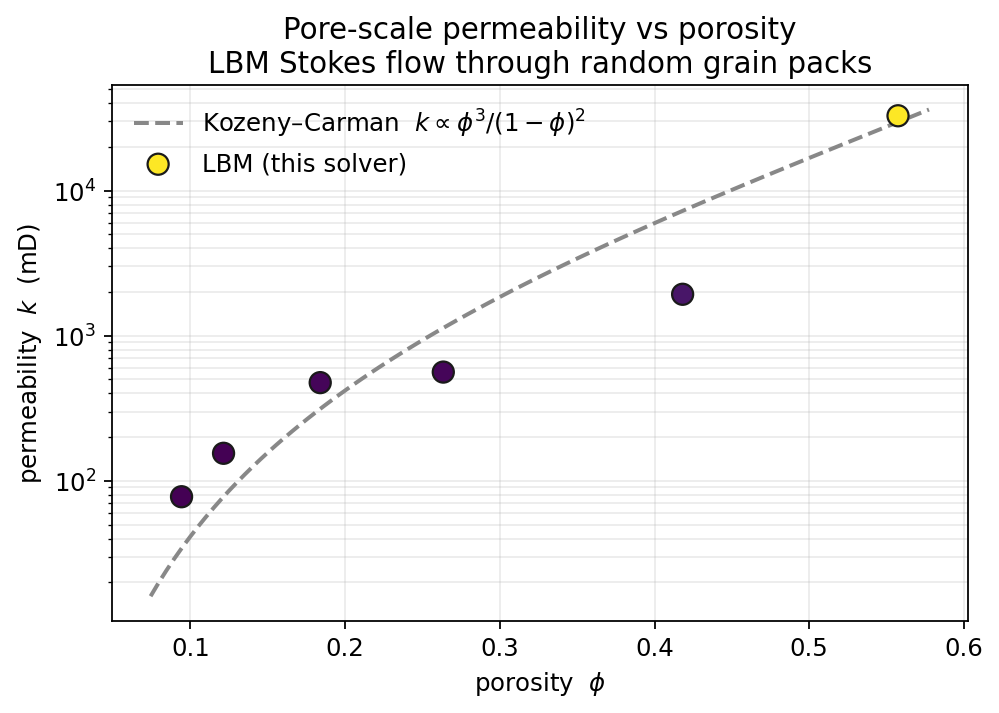
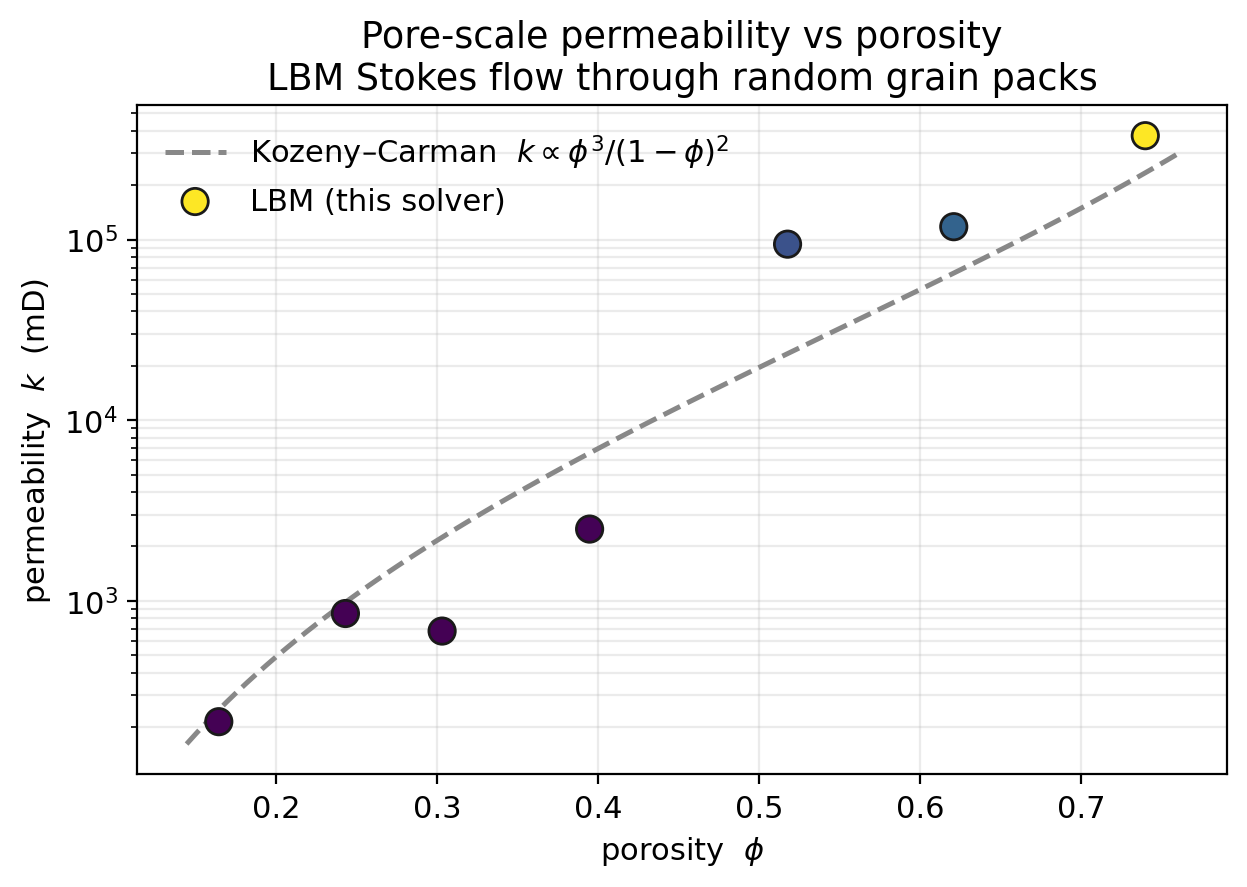
README: correct convergence claim, higher-res GPU figures, honest KC scatter
- Fix the accuracy of the Poiseuille validation: it is not 2nd-order; the error
  halves with each doubling of resolution (README highlights, validation section,
  test docstring all corrected).
- Soften the Kozeny-Carman claim to "follows the trend" and note the scatter is
  real (each point a different random packing), not solver error.
- Regenerate the velocity field at 460² and the porosity sweep at 320² on the GPU
  (sharper, better-converged than the earlier CPU-limited figures).

diff --git a/examples/permeability_curve.py b/examples/permeability_curve.py
@@ -23,14 +23,14 @@ from lbm_permeability import (
 
 OUT = os.path.join(os.path.dirname(os.path.dirname(os.path.abspath(__file__))), "docs")
 DX = 2.0e-6
-N = 150
+N = 320
 
 
 def main():
     os.makedirs(OUT, exist_ok=True)
     phis, ks = [], []
-    for nd in (22, 34, 46, 60, 76, 94):                       # more grains -> lower porosity
-        blocked = geometry.random_disks(N, N, n_disks=nd, radius=14, seed=100 + nd)
+    for nd in (26, 40, 56, 74, 94, 116, 142):                       # more grains -> lower porosity
+        blocked = geometry.random_disks(N, N, n_disks=nd, radius=20, seed=100 + nd)
         phi = geometry.porosity(blocked)
         res = lbm_stokes(blocked, F_x=1e-6, tau=1.0, n_steps_max=30000,
                          conv_tol=1e-5, conv_window=300, use_gpu=HAS_GPU, verbose=False)
@@ -57,7 +57,7 @@ def main():
     ax.grid(True, which="both", alpha=0.25)
     ax.legend(frameon=False, loc="upper left")
     fig.tight_layout()
-    fig.savefig(os.path.join(OUT, "permeability_vs_porosity.png"), dpi=160, bbox_inches="tight")
+    fig.savefig(os.path.join(OUT, "permeability_vs_porosity.png"), dpi=200, bbox_inches="tight")
     print(f"wrote {OUT}/permeability_vs_porosity.png")
 
 

diff --git a/examples/visualize.py b/examples/visualize.py
@@ -30,11 +30,11 @@ def main():
     os.makedirs(OUT_DIR, exist_ok=True)
 
     # A synthetic grain pack — reproducible, no external data needed.
-    blocked = geometry.random_disks(240, 240, n_disks=55, radius=17, seed=3)
+    blocked = geometry.random_disks(460, 460, n_disks=120, radius=26, seed=3)
     phi = geometry.porosity(blocked)
     print(f"porosity = {phi:.3f}   backend = {'GPU' if HAS_GPU else 'CPU'}")
 
-    res = lbm_stokes(blocked, F_x=1e-6, tau=1.0, n_steps_max=80000,
+    res = lbm_stokes(blocked, F_x=1e-6, tau=1.0, n_steps_max=150000,
                      conv_tol=1e-6, conv_window=500, use_gpu=HAS_GPU, verbose=False)
     ux, uy = res["ux"], res["uy"]
     speed = np.sqrt(ux ** 2 + uy ** 2)
@@ -51,7 +51,7 @@ def main():
     ax.set_title(f"Pore-scale geometry\n$\\phi$ = {phi:.2f} (pore fraction)", fontsize=11)
     ax.set_xticks([]); ax.set_yticks([])
     fig.tight_layout()
-    fig.savefig(os.path.join(OUT_DIR, "geometry.png"), dpi=160, bbox_inches="tight")
+    fig.savefig(os.path.join(OUT_DIR, "geometry.png"), dpi=200, bbox_inches="tight")
     plt.close(fig)
 
     # --- Figure 2: velocity magnitude + streamlines ---
@@ -75,7 +75,7 @@ def main():
     cb.set_label("velocity magnitude $|u|$ (lattice units)", fontsize=9)
     cb.ax.tick_params(labelsize=8)
     fig.tight_layout()
-    fig.savefig(os.path.join(OUT_DIR, "velocity.png"), dpi=160, bbox_inches="tight")
+    fig.savefig(os.path.join(OUT_DIR, "velocity.png"), dpi=200, bbox_inches="tight")
     plt.close(fig)
 
     print(f"wrote {OUT_DIR}/geometry.png and {OUT_DIR}/velocity.png")

diff --git a/tests/test_poiseuille.py b/tests/test_poiseuille.py
@@ -36,7 +36,7 @@ def test_poiseuille_accuracy():
 
 
 def test_poiseuille_convergence():
-    """Error must shrink as the channel is refined (2nd-order LBM)."""
+    """Error must shrink as the channel is refined (it roughly halves per doubling)."""
     errs = []
     for gap, Ny in [(10, 50), (20, 60), (40, 80)]:
         k, k_exact = _measure(gap, Ny)

diff --git a/README.md b/README.md
@@ -36,10 +36,11 @@ milliDarcy) by directly simulating creeping flow through the pore network.
 
 ## Results
 
-Run across grain packs of increasing solid fraction, the measured permeability
-collapses onto the classic **Kozeny–Carman** law `k ∝ φ³/(1−φ)²` — permeability
-falls by orders of magnitude as the pores close up, exactly as porous-media
-theory predicts.
+Run across random grain packs of increasing solid fraction, the measured
+permeability follows the classic **Kozeny–Carman** trend `k ∝ φ³/(1−φ)²` —
+permeability falls by orders of magnitude as the pores close up. The scatter
+about the curve is real: each point is a different random packing, not an
+idealized medium.
 
 <p align="center">
   <img src="docs/permeability_vs_porosity.png" alt="Permeability vs porosity vs Kozeny–Carman" width="62%">
@@ -63,7 +64,7 @@ streamlines threading through its pore space, colored by speed.
 |---|---|
 | **Method** | Single-phase Stokes flow · D2Q9 (2D) / D3Q19 (3D) · BGK collision · Guo body force |
 | **Backend** | CuPy on GPU, automatic NumPy/CPU fallback — *same code path* |
-| **Validation** | Plane-Poiseuille (2.4 % at a 40-cell aperture, 2nd-order) · Sangani–Acrivos cylinder array (~3 %) |
+| **Validation** | Plane-Poiseuille (2.4 % at a 40-cell aperture, error halving with resolution) · Sangani–Acrivos cylinder array (~3 %) |
 | **Dependencies** | NumPy (required) · CuPy (optional, GPU) · Matplotlib/PyVista (figures only) |
 
 ### One code path, CPU or GPU
@@ -169,8 +170,9 @@ Checked against two analytical references with closed-form permeability.
 
 **1. Plane-Poiseuille flow** (flat walls, exact). Flow between parallel plates
 has superficial permeability `k = (a²/12)·(gap/Ny)` with effective aperture
-`a = gap + 1` for half-way bounce-back. The discrete result converges to the
-analytical value at **second order** as the channel is refined:
+`a = gap + 1` for half-way bounce-back. The discrete result approaches the
+analytical value as the channel is refined — the error roughly **halves with
+each doubling** of the aperture:
 
 | Aperture (cells) | 10 | 20 | 40 |
 |---|---|---|---|